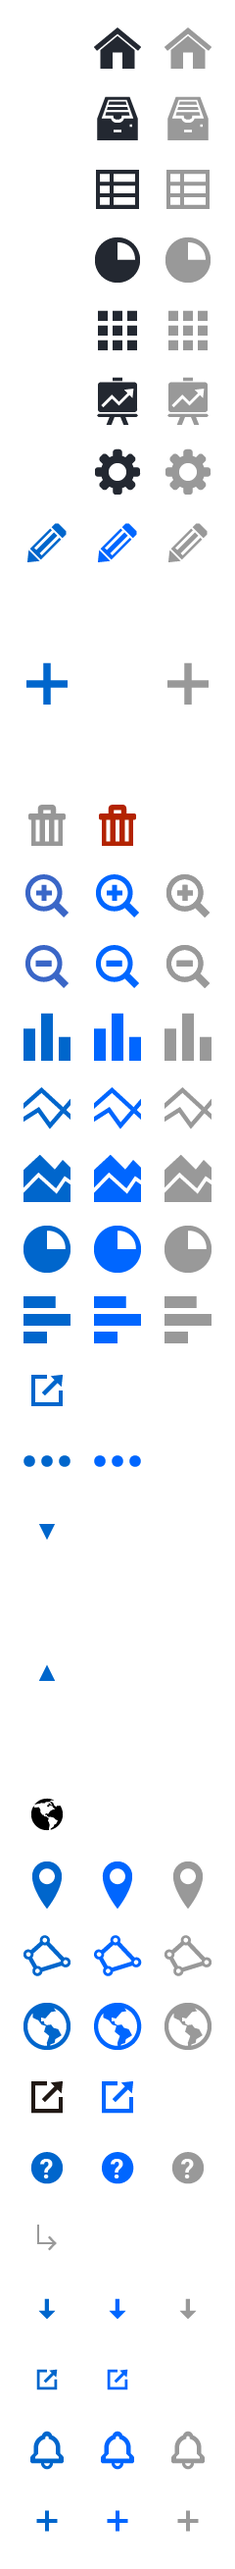
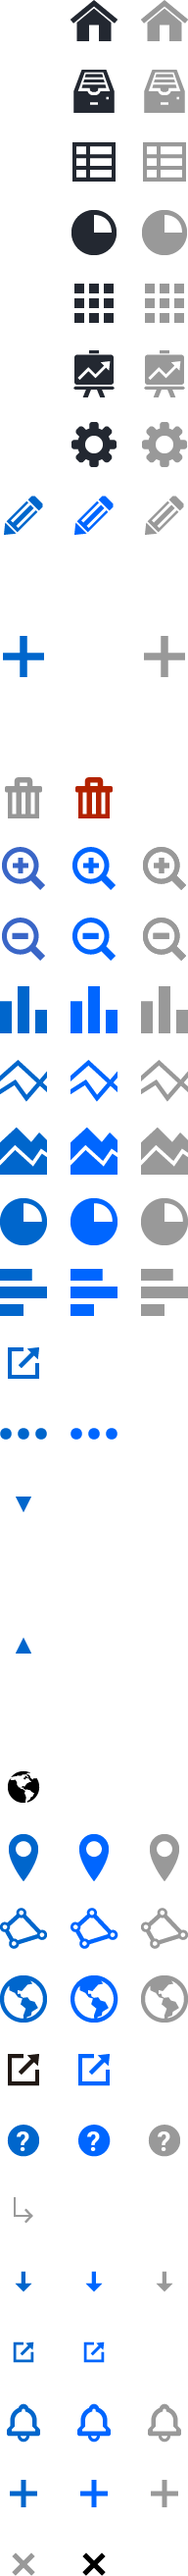
[Workspace] Íconos '+' y 'x' agregados

diff --git a/core/media/core/styles/icons.css b/core/media/core/styles/icons.css
@@ -21,154 +21,157 @@
 .fill-background{width:48px;height:48px;background-color:#0066cc;}
 
 
+/* Position */
+.corner-position{position:absolute;top:0;right:0;z-index:100;}
+
+
 /* 48px icons */
 .size-48{
 	background:url(/static/workspace/images/common/icons-48.png) no-repeat;background:rgba(0,0,0,0) url(/static/workspace/images/common/icons.svg) no-repeat scroll 0 0 / 240px auto;width:48px;height:48px;}
 
-	/* Nav local */
-	.icon-home,
-	.button:hover .icon-home{background-position:-12px -12px;}
-	.icon-home:hover,
-	.button.active .icon-home{background-position:-48px -12px;}
+/* Nav local */
+.icon-home,
+.button:hover .icon-home{background-position:-12px -12px;}
+.icon-home:hover,
+.button.active .icon-home{background-position:-48px -12px;}
 
-	.icon-datasets,
-	.button:hover .icon-datasets{background-position:-12px -48px;}
-	.icon-datasets:hover,
-	.button.active .icon-datasets{background-position:-48px -48px;}
+.icon-datasets,
+.button:hover .icon-datasets{background-position:-12px -48px;}
+.icon-datasets:hover,
+.button.active .icon-datasets{background-position:-48px -48px;}
 
-	.icon-dataviews,
-	.button:hover .icon-dataviews{background-position:-12px -84px;}
-	.icon-dataviews:hover,
-	.button.active .icon-dataviews{background-position:-48px -84px;}
-	
-	.icon-visualizations,
-	.button:hover .icon-visualizations{background-position:-12px -120px;}
-	.icon-visualizations:hover,
-	.button.active .icon-visualizations{background-position:-48px -120px;}
-	
-	.icon-dashboards,
-	.button:hover .icon-dashboards{background-position:-12px -156px;}
-	.icon-dashboards:hover,
-	.button.active .icon-dashboards{background-position:-48px -156px;}
+.icon-dataviews,
+.button:hover .icon-dataviews{background-position:-12px -84px;}
+.icon-dataviews:hover,
+.button.active .icon-dataviews{background-position:-48px -84px;}
 
-	.icon-reports,
-	.button:hover .icon-reports{background-position:-12px -192px;}
-	.icon-reports:hover,
-	.button.active .icon-reports{background-position:-48px -192px;}
+.icon-visualizations,
+.button:hover .icon-visualizations{background-position:-12px -120px;}
+.icon-visualizations:hover,
+.button.active .icon-visualizations{background-position:-48px -120px;}
 
-	.icon-settings,
-	.button:hover .icon-settings{background-position:-12px -228px;}
-	.icon-settings:hover,
-	.button.active .icon-settings{background-position:-48px -228px;}
+.icon-dashboards,
+.button:hover .icon-dashboards{background-position:-12px -156px;}
+.icon-dashboards:hover,
+.button.active .icon-dashboards{background-position:-48px -156px;}
 
+.icon-reports,
+.button:hover .icon-reports{background-position:-12px -192px;}
+.icon-reports:hover,
+.button.active .icon-reports{background-position:-48px -192px;}
 
-	/* General icons */
-	.icon-view-site{background-position:-12px -696px;}
-	.button:hover .icon-view-site{background-position:-48px -696px;}
-	.icon-view-site.icon-inline{background-position:-16px -700px;}
-
-	.icon-view-site-xs{background-position:-12px -1200px;}
-	.icon-view-site-xs:hover{background-position:-48px -1200px;}
-
-	.icon-new-tab{background-position:-12px -1056px;}
-	.button:hover .icon-new-tab{background-position:-48px -1056px;}
-	.icon-new-tab.icon-inline{background-position:-16px -1060px;}
-	.link.black:hover .icon-new-tab.icon-inline{background-position:-52px -1060px;}
-
-	.icon-more{background-position:-12px -732px;}
-	.icon-more:hover,
-	.button:hover .icon-more{background-position:-48px -732px;}
-
-	.icon-published{background-position:-12px -912px;}
-	.icon-published.icon-inline{background-position:-16px -916px;}
-
-	.icon-help{background-position:-12px -1092px;}
-	.button:hover .icon-help{background-position:-48px -1092px;}
-	.icon-help.icon-inline{background-position:-16px -1096px;}
-
-	.icon-notifications{background-position:-12px -1236px;}
-	.icon-notifications:hover{background-position:-48px -1236px;}
-
-	/* Arrows */
-	.icon-arrow-down-right{background-position:-12px -1128px;}
+.icon-settings,
+.button:hover .icon-settings{background-position:-12px -228px;}
+.icon-settings:hover,
+.button.active .icon-settings{background-position:-48px -228px;}
 
 
-	/* Actions */
-	.icon-edit{background-position:-12px -264px;}
-	.button:hover .icon-edit{background-position:-48px -264px;}
-	.icon-edit:active{background-position:-84px -264px;}
-	.icon-edit.fill-background{background-position:0 -290px;}
+/* General icons */
+.icon-view-site{background-position:-12px -696px;}
+.button:hover .icon-view-site{background-position:-48px -696px;}
+.icon-view-site.icon-inline{background-position:-16px -700px;}
 
-	.icon-add{background-position:-12px -336px;}
-	.icon-add.fill-background{background-position:0 -360px;}
+.icon-view-site-xs{background-position:-12px -1200px;}
+.icon-view-site-xs:hover{background-position:-48px -1200px;}
 
-	.icon-add-xs{background-position:-12px -1272px;}
-	.icon-add-xs:hover{background-position:-48px -1272px;}
+.icon-new-tab{background-position:-12px -1056px;}
+.button:hover .icon-new-tab{background-position:-48px -1056px;}
+.icon-new-tab.icon-inline{background-position:-16px -1060px;}
+.link.black:hover .icon-new-tab.icon-inline{background-position:-52px -1060px;}
 
-	.icon-delete{background-position:-12px -408px;}
-	.icon-delete:hover,
-	.button:hover .icon-delete{background-position:-48px -408px;}
+.icon-more{background-position:-12px -732px;}
+.icon-more:hover,
+.button:hover .icon-more{background-position:-48px -732px;}
 
-	.icon-zoom-in{background-position:-12px -444px;}
-	.icon-zoom-in:active{background-position:-84px -444px;}
+.icon-published{background-position:-12px -912px;}
+.icon-published.icon-inline{background-position:-16px -916px;}
 
-	.icon-zoom-out{background-position:-12px -480px;}
-	.icon-zoom-out:active{background-position:-84px -480px;}
+.icon-help{background-position:-12px -1092px;}
+.button:hover .icon-help{background-position:-48px -1092px;}
+.icon-help.icon-inline{background-position:-16px -1096px;}
 
-	.icon-download{background-position:-12px -1164px;}
-	.icon-download:hover{background-position:-48px -1164px;}
+.icon-notifications{background-position:-12px -1236px;}
+.icon-notifications:hover{background-position:-48px -1236px;}
 
-		/* Hover */
-		.icon-edit:hover,
-		.icon-add:hover,
-		.icon-zoom-in:hover,
-		.icon-zoom-out:hover{opacity:.5;filter:alpha(opacity=50);-ms-filter:"progid:DXImageTransform.Microsoft.Alpha(Opacity=50";}
-		.button:hover .icon-edit{opacity:1;filter:alpha(opacity=100);-ms-filter:"progid:DXImageTransform.Microsoft.Alpha(Opacity=100";}
+.icon-close{background-position:-12px -1308px;}
+.icon-close:hover{background-position:-48px -1308px;}
 
-	/* Pull down */
-	.icon-pulldown,
-	.button-pulldown .button .icon-pulldown{background-position:-12px -804px;top:-1px;}
-		/* Tab - Header */
-		.tab.pulldown .icon-pulldown{background-position:-12px -768px;display:inline-block;vertical-align:middle;position:relative;}
-		.tab.pulldown:hover .icon-pulldown{background-position:-12px -804px;}
-		/* Active / hover */
-		.button-pulldown.active .button .icon-pulldown,
-		.tab.pulldown.active .icon-pulldown{background-position:-12px -876px;}
-
-		/* Remove margin */
-		.button .icon-pulldown,
-		.button .icon-pulldown.icon-right,
-		.tab.pulldown .icon-pulldown,
-		.tab.pulldown .icon-pulldown.icon-right{margin:0;}
+/* Arrows */
+.icon-arrow-down-right{background-position:-12px -1128px;}
 
 
-	/* Charts */
-	.icon-chart-column{background-position:-12px -516px;}
-	.icon-chart-column.size-48{background-position:-24px -1032px;}
+/* Actions */
+.icon-edit{background-position:-12px -264px;}
+.button:hover .icon-edit{background-position:-48px -264px;}
+.icon-edit:active{background-position:-84px -264px;}
+.icon-edit.fill-background{background-position:0 -290px;}
 
-	.icon-chart-line{background-position:-12px -552px;}
-	.icon-chart-line.size-48{background-position:-24px -1104px;}
+.icon-add{background-position:-12px -336px;}
+.icon-add.fill-background{background-position:0 -360px;}
 
-	.icon-chart-area{background-position:-12px -588px;}
-	.icon-chart-area.size-48{background-position:-24px -1176px;}
+.icon-add-xs{background-position:-12px -1272px;}
+.icon-add-xs:hover{background-position:-48px -1272px;}
 
-	.icon-chart-pie{background-position:-12px -624px;}
-	.icon-chart-pie.size-48{background-position:-24px -1248px;}
+.icon-delete{background-position:-12px -408px;}
+.icon-delete:hover,
+.button:hover .icon-delete{background-position:-48px -408px;}
 
-	.icon-chart-bar{background-position:-12px -660px;}
-	.icon-chart-bar.size-48{background-position:-24px -1320px;}
+.icon-zoom-in{background-position:-12px -444px;}
+.icon-zoom-in:active{background-position:-84px -444px;}
+
+.icon-zoom-out{background-position:-12px -480px;}
+.icon-zoom-out:active{background-position:-84px -480px;}
+
+.icon-download{background-position:-12px -1164px;}
+.icon-download:hover{background-position:-48px -1164px;}
+
+	/* Hover */
+	.icon-edit:hover,
+	.icon-add:hover,
+	.icon-zoom-in:hover,
+	.icon-zoom-out:hover{opacity:.5;filter:alpha(opacity=50);-ms-filter:"progid:DXImageTransform.Microsoft.Alpha(Opacity=50";}
+	.button:hover .icon-edit{opacity:1;filter:alpha(opacity=100);-ms-filter:"progid:DXImageTransform.Microsoft.Alpha(Opacity=100";}
+
+/* Pull down */
+.icon-pulldown,
+.button-pulldown .button .icon-pulldown{background-position:-12px -804px;top:-1px;}
+	/* Tab - Header */
+	.tab.pulldown .icon-pulldown{background-position:-12px -768px;display:inline-block;vertical-align:middle;position:relative;}
+	.tab.pulldown:hover .icon-pulldown{background-position:-12px -804px;}
+	/* Active / hover */
+	.button-pulldown.active .button .icon-pulldown,
+	.tab.pulldown.active .icon-pulldown{background-position:-12px -876px;}
+
+	/* Remove margin */
+	.button .icon-pulldown,
+	.button .icon-pulldown.icon-right,
+	.tab.pulldown .icon-pulldown,
+	.tab.pulldown .icon-pulldown.icon-right{margin:0;}
 
 
-	/* Maps */
-	.icon-map-marker{background-position:-12px -948px;}
-	.icon-map-marker.size-48{background-position:-24px -1896px;}
+/* Charts */
+.icon-chart-column{background-position:-12px -516px;}
+.icon-chart-column.size-48{background-position:-24px -1032px;}
 
-	.icon-map-trace{background-position:-12px -984px;}
-	.icon-map-trace.size-48{background-position:-24px -1968px;}
+.icon-chart-line{background-position:-12px -552px;}
+.icon-chart-line.size-48{background-position:-24px -1104px;}
 
-	.icon-map-geo{background-position:-12px -1020px;}
-	.icon-map-geo.size-48{background-position:-24px -2040px;}
+.icon-chart-area{background-position:-12px -588px;}
+.icon-chart-area.size-48{background-position:-24px -1176px;}
+
+.icon-chart-pie{background-position:-12px -624px;}
+.icon-chart-pie.size-48{background-position:-24px -1248px;}
+
+.icon-chart-bar{background-position:-12px -660px;}
+.icon-chart-bar.size-48{background-position:-24px -1320px;}
 
 
-/* Position */
-.corner-position{position:absolute;top:0;right:0;z-index:100;}
+/* Maps */
+.icon-map-marker{background-position:-12px -948px;}
+.icon-map-marker.size-48{background-position:-24px -1896px;}
+
+.icon-map-trace{background-position:-12px -984px;}
+.icon-map-trace.size-48{background-position:-24px -1968px;}
+
+.icon-map-geo{background-position:-12px -1020px;}
+.icon-map-geo.size-48{background-position:-24px -2040px;}
